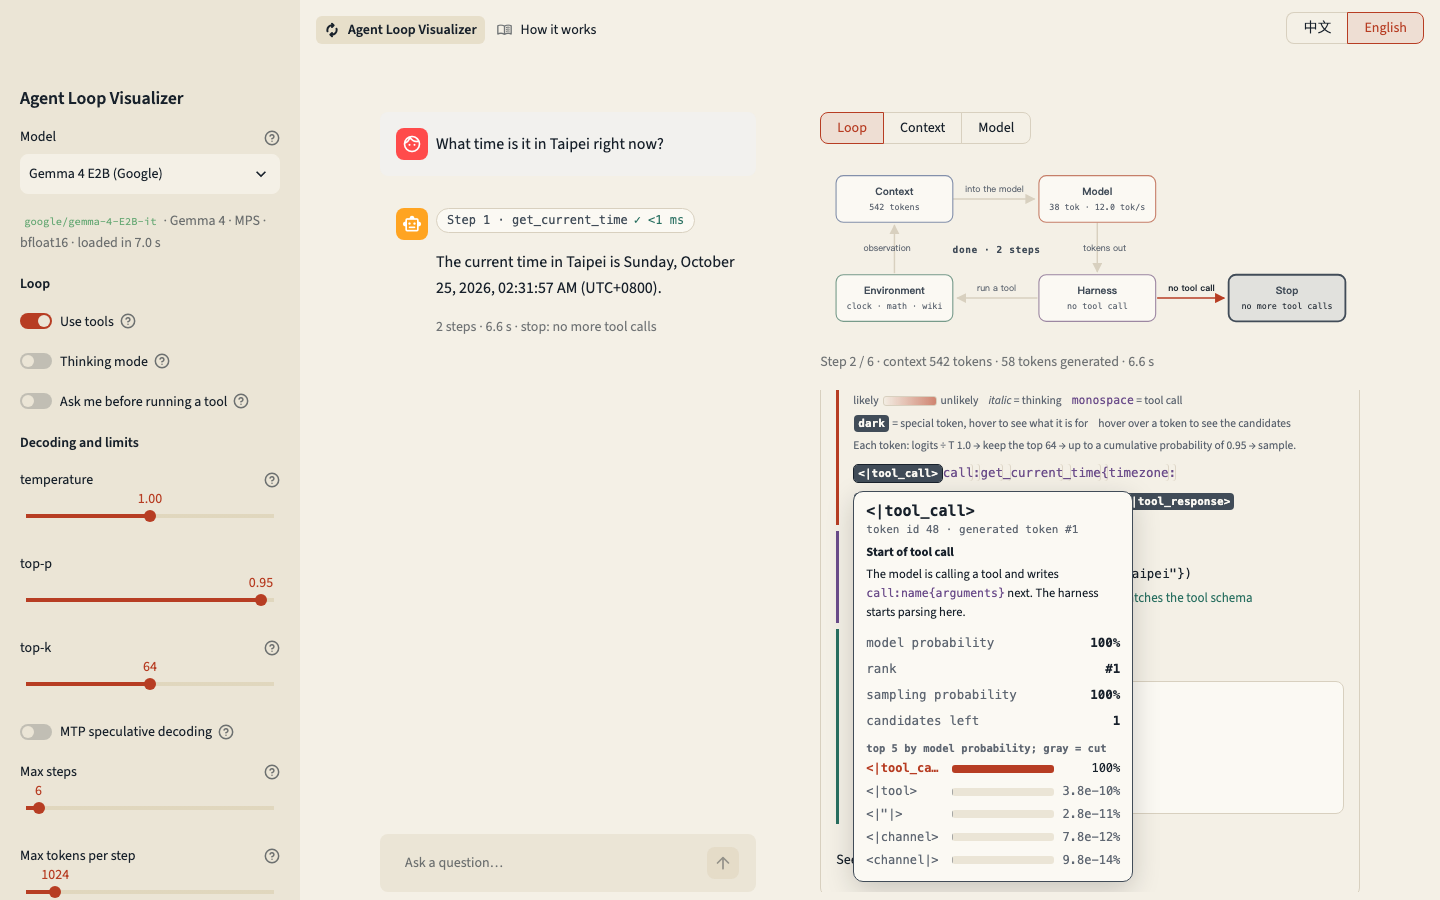
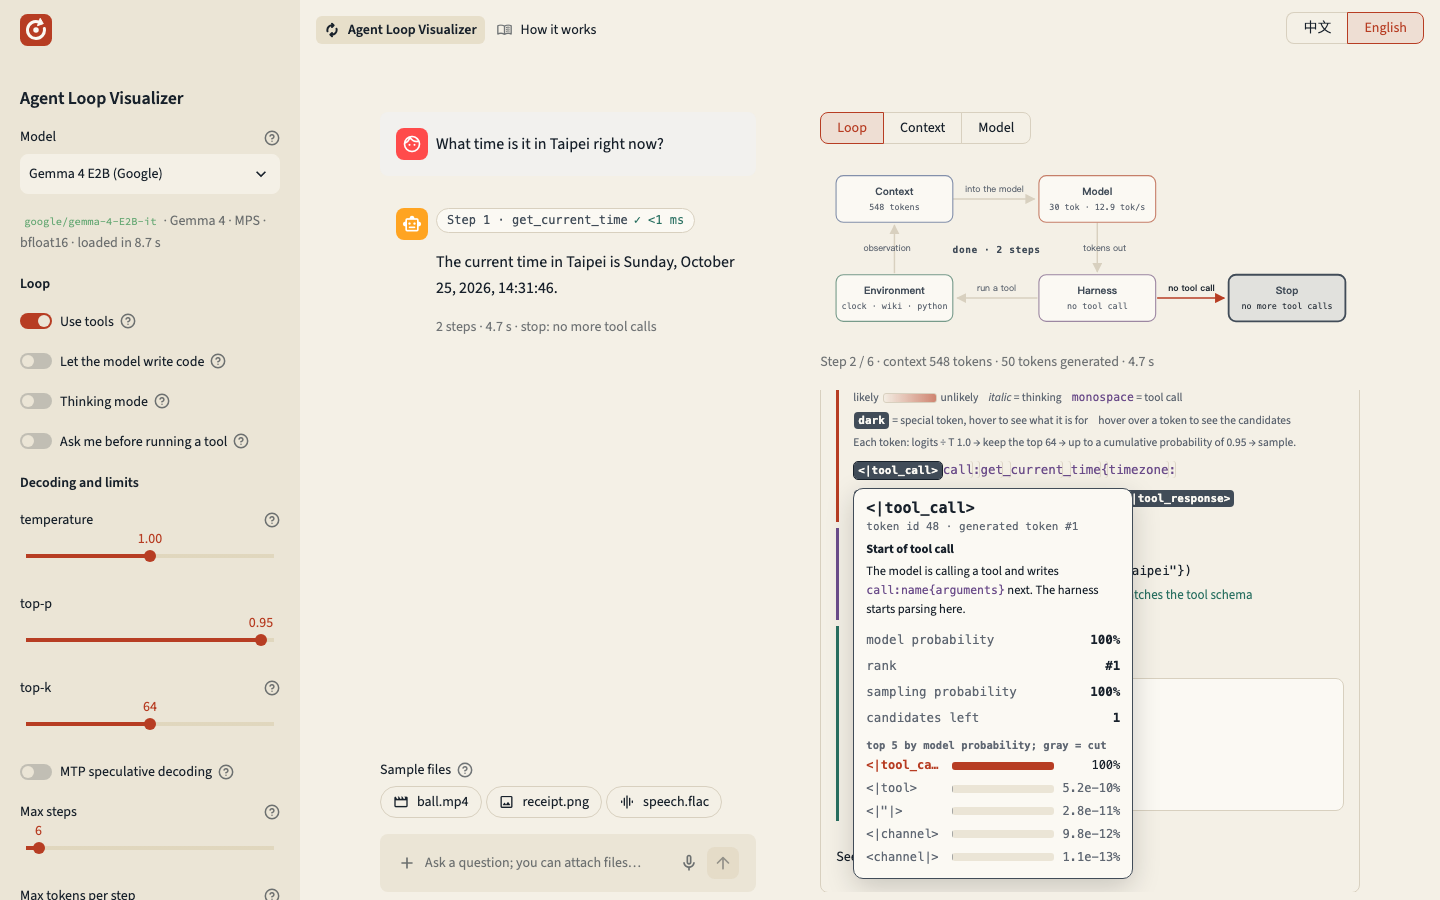
Retake the README screenshots on the current page
Both were taken before Let the model write code, the + and microphone in the input box, and the
sample files above it. The new ones show the same scene from a real Gemma run, each page in its
README's language: the first example answered, and the pointer on step 1's <|tool_call> with its
popover open. The alt text in both READMEs now mentions the sample files too.

Claude-Session: https://claude.ai/code/session_01GYRbstFk6KZDo54afLFzii

diff --git a/README.md b/README.md
@@ -2,7 +2,7 @@
 
 English | [繁體中文](README.zh-TW.md)
 
-![The top bar links to the How it works page, the switch at the top right changes the language, and the sidebar picks the model; on the left is the chat, on the right the loop diagram and the tokens of step 1. The pointer rests on the special token <|tool_call>, whose popover says what it is for and shows its probability, its rank and the top 5 candidates.](docs/screenshot-en.png)
+![The top bar links to the How it works page, the switch at the top right changes the language, and the sidebar picks the model; on the left is the chat, with the sample files to ask about above the input box, on the right the loop diagram and the tokens of step 1. The pointer rests on the special token <|tool_call>, whose popover says what it is for and shows its probability, its rank and the top 5 candidates.](docs/screenshot-en.png)
 
 One of the projects of [Agent Atlas](https://cyyeh.github.io/agent-atlas-learning/) (in Traditional Chinese).
 

diff --git a/README.zh-TW.md b/README.zh-TW.md
@@ -2,7 +2,7 @@
 
 [English](README.md) | 繁體中文
 
-![上方可以切換到「運作說明」頁，右上角可以切換語言，側欄可以選模型；左邊是對話，右邊是迴圈圖與第 1 步的 token。滑鼠停在 <|tool_call> 這個特殊 token 上，浮窗說明它的用途，並顯示它的機率、排名與前 5 名候選](docs/screenshot-zh.png)
+![上方可以切換到「運作說明」頁，右上角可以切換語言，側欄可以選模型；左邊是對話，輸入框上方是可以拿來問的範例檔案，右邊是迴圈圖與第 1 步的 token。滑鼠停在 <|tool_call> 這個特殊 token 上，浮窗說明它的用途，並顯示它的機率、排名與前 5 名候選](docs/screenshot-zh.png)
 
 此為[Agent Atlas 技術與實戰交流](https://cyyeh.github.io/agent-atlas-learning/)的專案之一。
 
